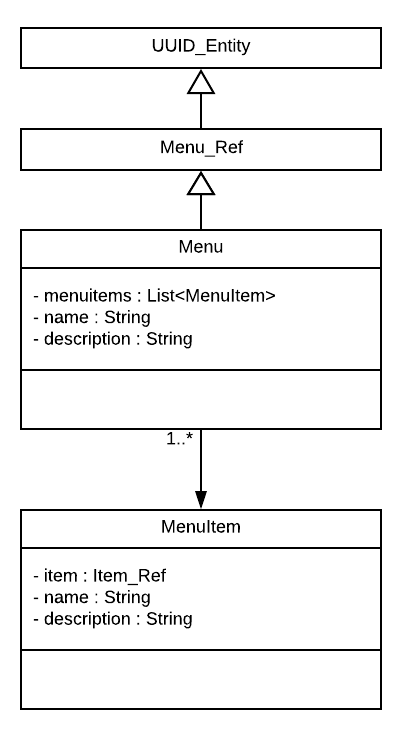
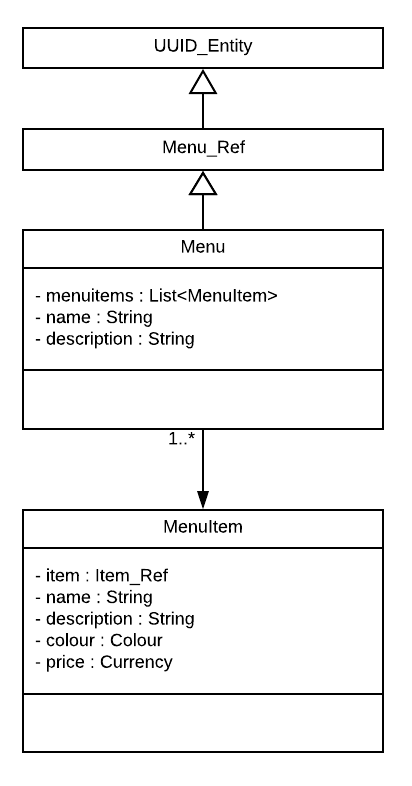
Completed Technical Document Data Model Section

Changed region(s): [[0.0299, 0.031, 0.9552, 0.9622]]

diff --git a/design_document/sections/technical_design.tex b/design_document/sections/technical_design.tex
@@ -1,24 +1,99 @@
 From the analysis of quality requirements it was revealed that Reliability(QR), Maintainability(QR) and Flexibility(QR) were all deemed to be of high or medium priority. These factors are influenced by the software having low-coupling and robust systems. Investing time on technical design and architecture at the start of the project allows for reduced cost of refactoring in the long term; This will be mentioned more under Design Post-Mortem. For this reason it was deemed an important focus on architecture throughout the project.
 
-\subsection{Data Model}
-Featured below is the UML Class diagrams of model objects to be implemented in Java. They were made from analysis of Data Modelling and modified to meet the needs of Functional Requirements. This model does not represent the full system but just the core classes in the model. All attributes can be assumed to have getters or setters unless stated otherwise and the functions mention are examples of additional functionality and may not be reflective of the final system completely.
+\subsection{Data Model} \label{subsec:DataModel}
+Featured below is the UML Class diagrams of model objects to be implemented in Java. They were made from analysis of Data Modelling and modified to meet the needs of Functional Requirements. This model does not represent the full system but just the core classes in the model; As these are the most complicated parts of our system and therefore needing to be diagramed. All attributes can be assumed to have getters or setters unless stated otherwise and the functions mention are examples of additional functionality and may not be reflective of the final system completely.
 Each of these core classes inherits from UUID Entity that gives the object a unique identifier that is used internally within the system that is discussed further in Section \ref{subsec:Architecture}.
 
 \subsubsection{Menu}
 
-\begin{wrapfigure}{l}{0.3\textwidth}
-	\centering
-	\includegraphics[width=0.25\textwidth]{images/data_model/menu.png}
-	\caption{This is a figure caption.} \label{fig:UML_Menu}
-\end{wrapfigure}
+	\begin{minipage}[t]{.6\linewidth}
+		The menu class is used to act as a collection of menuitems for the business. In practice this could be a breakfast menu, lunch menu, drinks menu etc. Any time of items which the user would like to combine together into one screen.
+		\linebreak
+		
+		A menu consists of a name, description and a list of menuitems. Menuitems are unqiue to the menu they belong to and consist of a name, description, colour, price and an Item reference of the food item it sells. The colour is used for gui display. The price is an optional overide to allow the user to have different prices on the same item for different menus. An example of this could be upselling for a festival.
+		
+	\end{minipage}
+	\hspace{0.02\linewidth}
+	\begin{minipage}[t][][b]{.3\linewidth}
+		\includegraphics[width=\linewidth]{images/data_model/menu.png}
+		\captionof{figure}{UML Menu Class}
+	\end{minipage}
 
-
-\lipsum[2-3]
+\pagebreak
 
 \subsubsection{Item}
+	\begin{figure}
+		\centering
+		\includegraphics[width=.6\linewidth]{images/data_model/item.png}
+		\caption{UML Item Class and Subclasses}
+	\end{figure}
+
+	Item class and its subclasses are used to model the process of ingredients inside a kitchen moving from storage into intermediary products and then finally finished products. It models this by using the Composite class pattern, where CompositeItem is the Composite class and Item is the leaf class. Using this pattern the system can represent heirarcys of ingredients into final products. For instance ground beef into patties and patties into burgers. This gives the user great flexibility and depth in representing production chains in the software and gives the software many metrics to provide functionality or statistics. The design deviates from the original gang of four's pattern by using an additional Composite class VariantItem. The purpose of variant item is to group similar items that can be interchanged in recipes. For instance gluten free bread and regular bread would be grouped in the variant item Bread. This allows for the system to dynamically adjust recipes by knowing which ingredients can be substituted to create different properties in the final product. Such as selecting that the final product be made from only gluten free ingredients. These features are only possible by having a seperate item model from menu items.
+	
+	The design was picked for robustness as the model makes no assumptions directly about selling food and can be fitted for any goods the user may want to sell.
+	
+	An item consists of a base price and markup price. This is the price the user can buy the item for and the price the user sells the item for. The base price is used to calculate profit margins for the user and the markup price is used as the default sell price of menu item. This field is useful even for ingredients that will never be on a menu as it is used to calculate add on cost for order customisation discussed further in Section \ref{subsubsec:Order}.
+	
+	The qty unit on item is an enum to designate the quantity unit for stock. This could be kilogram, litre or count.
+	
+
 \subsubsection{ItemTag}
+
+	\begin{minipage}[t]{.6\linewidth}
+		ItemTag class can be created and applied by the user to designate collections of items under a similar tag, such as gluten free or vegan. The class has two attributes name and dominant flag. The dominant flag is used in descision making in the software to how the tag interacts in composite items. If a tag is dominant then the parent item inheirts the tag if it has one child that owns it. For instance 'Contains peanuts' would be considered a dominant tag because anything made using that tag would also contain peanuts. If a tag is non-dominant then the parent tag only inherits the tag if all its children have the tag. For instance 'gluten-free' is only true if all ingredients are also gluten free. 
+		
+	\end{minipage}
+	\hspace{0.02\linewidth}
+	\begin{minipage}[t][][b]{.3\linewidth}
+		\includegraphics[width=\linewidth]{images/data_model/tag.png}
+		\captionof{figure}{UML ItemTag Class}
+	\end{minipage}
+
+
 \subsubsection{StockInstance}
-\subsubsection{Order}
+	\begin{minipage}[t]{.6\linewidth}
+		The StockInstance class represents physical stock of an item that the user has. Using this information the system calculates what products can be made from the ingredients avaliable and warns when running low or close to expiry. The model uses a seperate stock instance class rather than a quantity attribute for item to better emulate the real world. From stakeholder surveys(Section \ref{Surveys}) managing inventory is an important feature and the pattern in which stakeholders bought ingredients was in discrete bulk lots with indivdual expiry dates. The stock instance class aims to models these bulk lots and give more detail to the system of  ingredients freshness and quantities.
+		
+	\end{minipage}
+	\hspace{0.02\linewidth}
+	\begin{minipage}[t][][b]{.3\linewidth}
+		\includegraphics[width=\linewidth]{images/data_model/stock.png}
+		\captionof{figure}{UML StockInstance Class}
+	\end{minipage}
+
+\subsubsection{Order} \label{subsubsec:Order}
+
+	\begin{minipage}[t]{.6\linewidth}
+		The Order class models an order made to the system for a single or multiple menu items. The order class was designed with the ability to customise the ingredients in the order by adding, replacing or removing. To accomplish this the Order has to be expressed in the same form as the items and so a heirarcy of OrderItems is used. This is created by deep copying Composite Items into OrderItems. For variant items the variantItem is added to the order and the first variant is added as its child. This is done to perserve the information of the variant item so it can be swaped for other variants. See Appendix \ref{Appendix orders} for an example of this conversion.
+	\end{minipage}
+	\hspace{0.02\linewidth}
+	\begin{minipage}[t][][b]{.3\linewidth}
+		\includegraphics[width=\linewidth]{images/data_model/order.png}
+		\captionof{figure}{UML Order Class}
+	\end{minipage}
+
+\pagebreak
 
 \subsection{Architecture} \label{subsec:Architecture}
+	\subsubsection{Model-View-Controller}
+		The system was decided to use the Model View Controller design pattern for its architecture for the advantages of its low coupling of system and gui logic. The core of the data model is described with detail in Section \ref{subsec:DataModel}. To assist in the design of maintainable code the Controller was split into three sublayers of classes. Firstly Managers are identified systems of related code in the program that have shared state. They act as a linker foremost managing the access and use of shared state. The program has very litte state other than data model and so the only manager is OrderManager; That faciliates the order cart and the constuction and customisation of Orders.
+		 Second is Logical Services that provide some single responsibility service to the higher levels of the program. An example of this in the software is DataQuery which provides a service of data filtering data model lists. 
+		Lastly is GUI Controllers, which are in charge of data sanatation for lower layers and building of dynamic gui elements.
+		Having these sublayers allows for finer control of single responsibility and low coupling. In turn making code more maintainable and easier to test. Below is a visual diagram of these layers.
+
+		\begin{figure}[h]
+			\centering
+			\includegraphics[width=.6\linewidth]{images/data_model/architecture.png}
+			\caption{Software Layer Communication Diagram}
+		\end{figure}
+
+
+\subsubsection{Data Persistence}
+With the use cases of the user being able to modify the data model and make changes through the use of the program made data persistance a priority within and outside the application. To ensure that data model changes were universal in the software the references to objects had to be the same through out the program. This was accomplished using 
+
 \subsection{Design Post-Mortem}
+The good of using this kind of design.
+More than XML backend good for export import but bad since not made to be human editable so inefficent storage.
+Autosaving as it currently is.
+Unique identifiers shorter
+VariantItems in orders done differently

diff --git a/design_document/report.tex b/design_document/report.tex
@@ -12,6 +12,8 @@
 \usepackage{lipsum}
 \usepackage{ltxtable}
 \usepackage{xltabular}
+\usepackage{caption}
+\usepackage{csvsimple}
 \geometry{a4paper, margin=1.5cm}
 
 \usepackage{tabularx}
